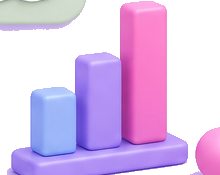
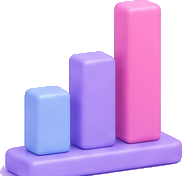
Ajustar seccion Escribenos: sobre grande y decoracion limpia
- Sobre grande arriba a la derecha de la columna izquierda (no detras
  del formulario), texto por encima y legible.
- Avion reposicionado en el hueco, sin interferir con el texto.
- Planta (con bolita) y grafico re-extraidos completos y limpios,
  ubicados en las esquinas sin recortes.

diff --git a/src/components/sections/Contacto.tsx b/src/components/sections/Contacto.tsx
@@ -30,9 +30,7 @@ export default function Contacto() {
       className="relative overflow-hidden scroll-mt-20 bg-section-gradient py-20"
     >
       {/* Decoración 3D */}
-      <Image src="/mockups/esc-envelope.png" alt="" aria-hidden width={480} height={480} className="pointer-events-none absolute left-1/2 top-1 z-0 hidden w-24 -translate-x-1/2 select-none lg:block xl:w-28" />
-      <Image src="/mockups/esc-plane.png" alt="" aria-hidden width={200} height={140} className="pointer-events-none absolute left-[7%] top-28 z-0 hidden w-14 select-none xl:block" />
-      <Image src="/mockups/esc-barchart.png" alt="" aria-hidden width={440} height={360} className="pointer-events-none absolute left-[1%] bottom-6 z-0 hidden w-24 select-none lg:block" />
+      <Image src="/mockups/esc-barchart.png" alt="" aria-hidden width={440} height={360} className="pointer-events-none absolute left-[1%] bottom-6 z-0 hidden w-24 select-none lg:block xl:w-28" />
       <Image src="/mockups/esc-plant.png" alt="" aria-hidden width={300} height={420} className="pointer-events-none absolute right-[1%] bottom-4 z-0 hidden w-24 select-none lg:block xl:w-28" />
       <Image src="/mockups/deco-sparkle-purple.png" alt="" aria-hidden width={128} height={128} className="pointer-events-none absolute right-[7%] top-10 z-0 hidden w-10 select-none sm:block" />
       <Image src="/mockups/deco-sparkle-pink.png" alt="" aria-hidden width={128} height={128} className="pointer-events-none absolute left-[43%] top-24 z-0 hidden w-8 select-none lg:block" />
@@ -41,9 +39,26 @@ export default function Contacto() {
 
       <div className="relative z-10 mx-auto max-w-6xl px-5 lg:px-8">
         <div className="grid gap-12 lg:grid-cols-2 lg:items-center">
-          <div>
+          <div className="relative">
+            {/* Ilustración del sobre */}
+            <Image
+              src="/mockups/esc-envelope.png"
+              alt=""
+              aria-hidden
+              width={480}
+              height={480}
+              className="pointer-events-none absolute -top-4 right-0 z-0 hidden w-56 select-none lg:block xl:-right-8 xl:w-72"
+            />
+            <Image
+              src="/mockups/esc-plane.png"
+              alt=""
+              aria-hidden
+              width={200}
+              height={140}
+              className="pointer-events-none absolute left-[39%] top-[47%] z-0 hidden w-11 select-none lg:block"
+            />
             <h2
-              className="text-4xl font-extrabold text-balance text-navy sm:text-5xl"
+              className="relative z-10 text-4xl font-extrabold text-balance text-navy sm:text-5xl"
               style={{
                 fontFamily: "var(--font-poppins)",
                 lineHeight: 1.02,
@@ -52,12 +67,12 @@ export default function Contacto() {
             >
               Escríbenos
             </h2>
-            <p className="mt-5 max-w-md text-lg text-navy/70">
+            <p className="relative z-10 mt-5 max-w-[15rem] text-lg text-navy/70">
               Estamos aquí para ayudarte. Cuéntanos cómo podemos apoyar a tu negocio,{" "}
               <span className="font-semibold text-pink-dark">¡será un gusto atenderte!</span>
             </p>
 
-            <ul className="mt-8 space-y-5">
+            <ul className="relative z-10 mt-8 space-y-5">
               <li className="flex items-center gap-4">
                 <span className="flex h-14 w-14 shrink-0 items-center justify-center rounded-2xl bg-gradient-to-br from-[#F9B8DD] to-[#EE7CBC] text-white shadow-md shadow-pink/25">
                   <Phone size={24} className="fill-white" />
